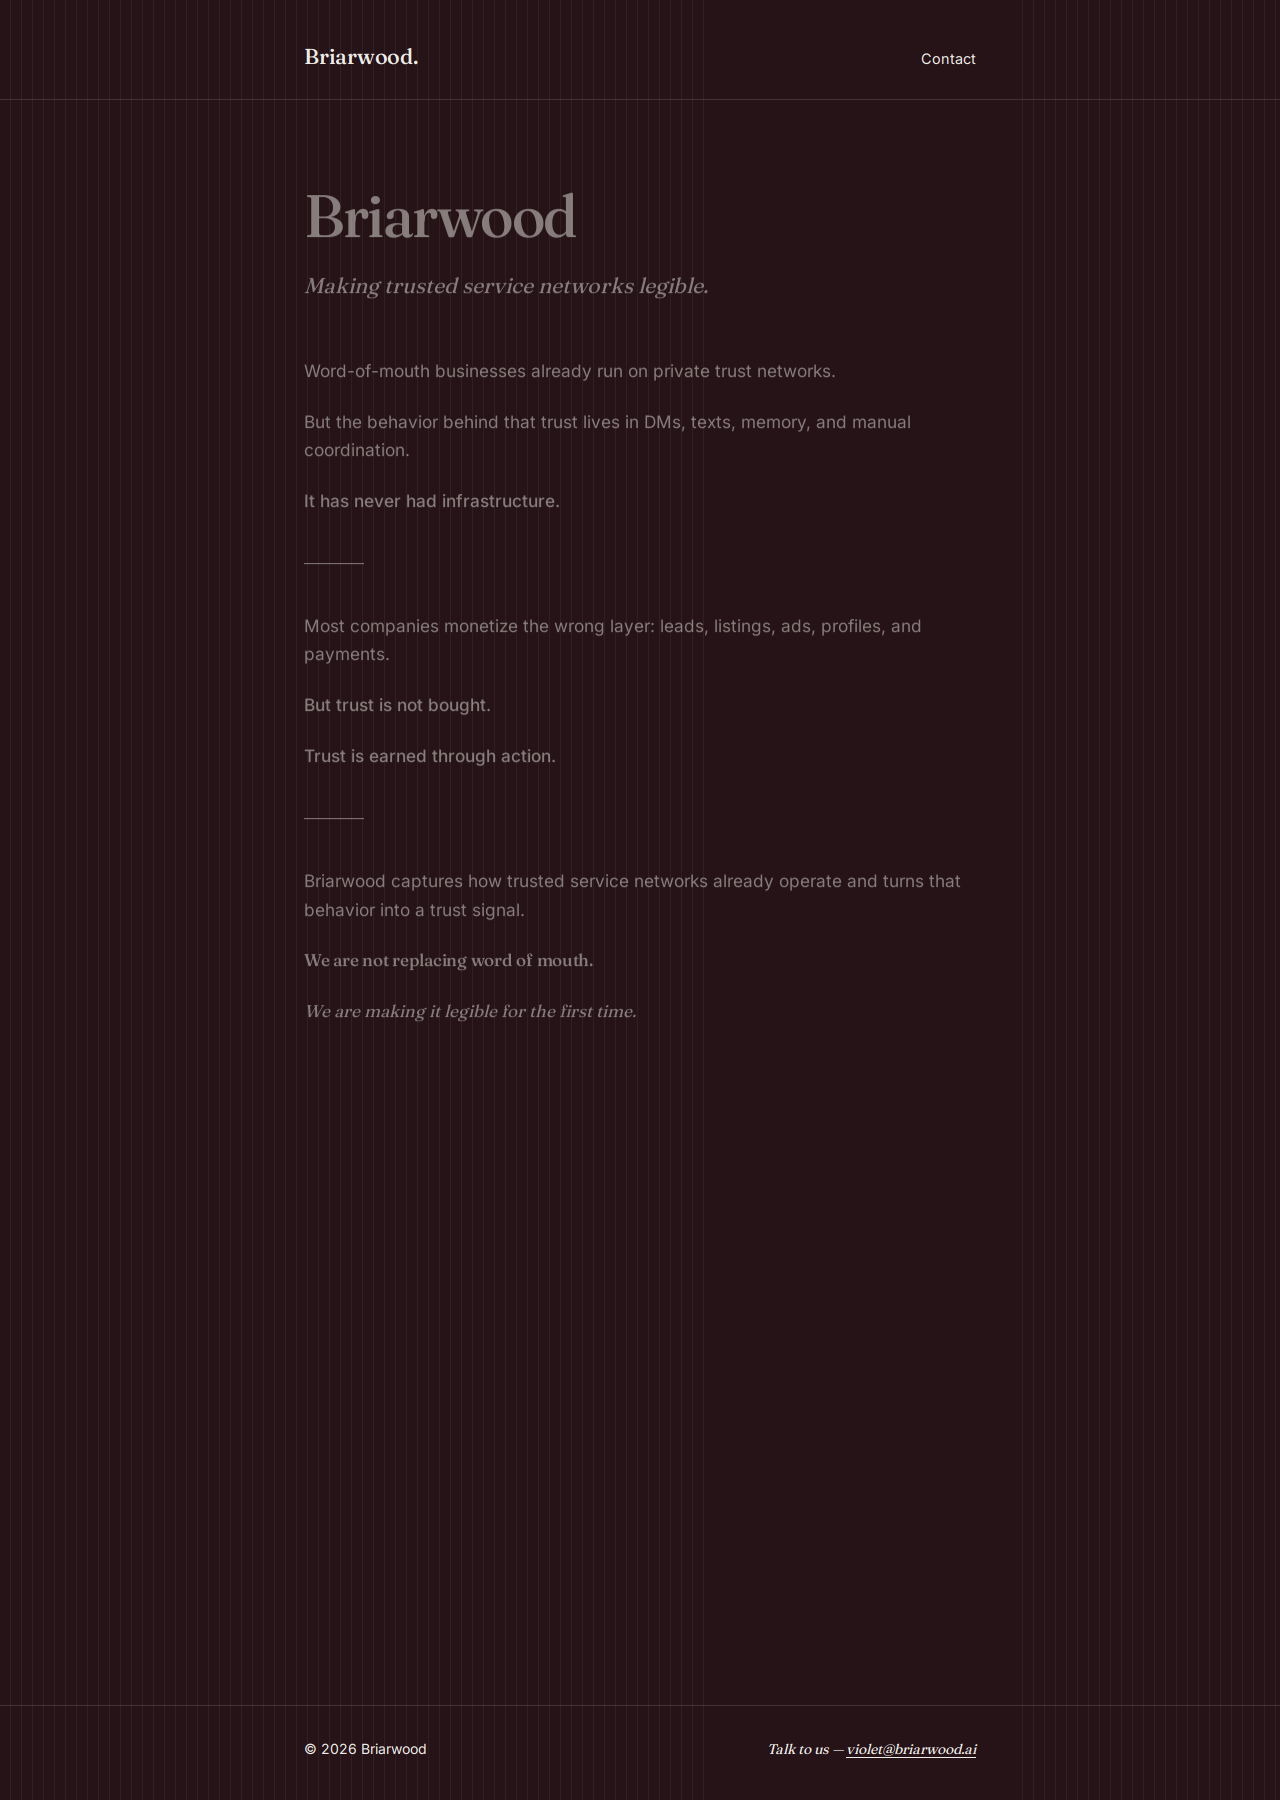
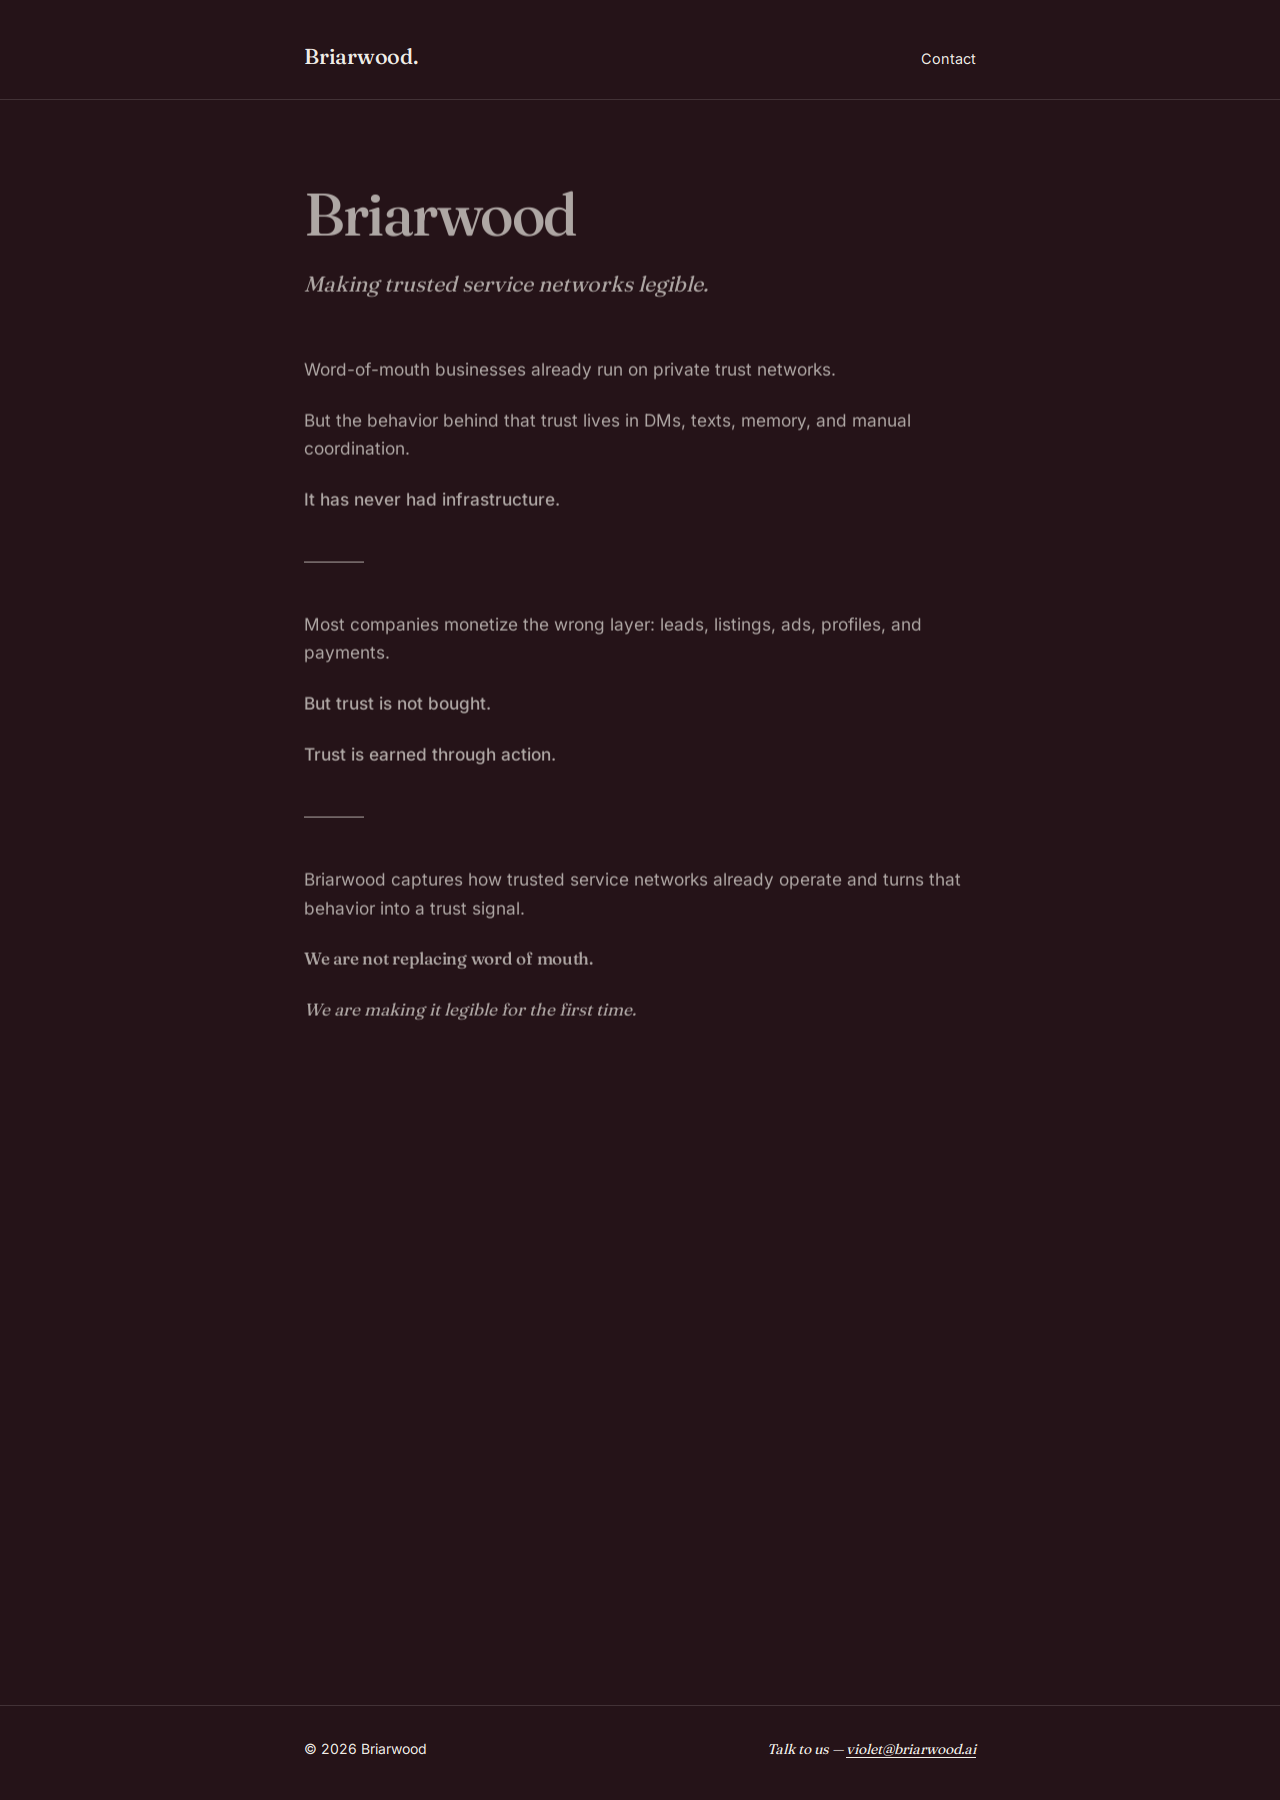
Update background to show grouped pinstripes
Modify the repeating linear gradient CSS to create clustered pinstripes on the landing page background.

Replit-Commit-Author: Agent
Replit-Commit-Session-Id: 009ee89d-49d3-4709-8368-a0944dae4585
Replit-Commit-Checkpoint-Type: full_checkpoint
Replit-Commit-Event-Id: 2bdbe9a3-0d9e-4d49-82c8-8c0f06ac4081
Replit-Commit-Screenshot-Url: https://storage.googleapis.com/screenshot-production-us-central1/e8599704-1e72-4097-8c86-37ef455a3ec6/009ee89d-49d3-4709-8368-a0944dae4585/rmIFtIP
Replit-Helium-Checkpoint-Created: true

diff --git a/briarwood-landing/index.html b/briarwood-landing/index.html
@@ -37,25 +37,30 @@
 html {
   scroll-behavior: smooth;
   background-color: hsl(345 31% 11%);
-  background-image: repeating-linear-gradient(
-    to right,
-    transparent 0,
-    transparent 5px,
-    hsla(36, 24%, 92%, 0.055) 5px,
-    hsla(36, 24%, 92%, 0.055) 5.5px
-  );
+  background-image:
+    repeating-linear-gradient(
+      to right,
+      transparent 0,
+      transparent 7px,
+      hsla(36, 24%, 92%, 0.07) 7px,
+      hsla(36, 24%, 92%, 0.07) 7.5px,
+      transparent 7.5px,
+      transparent 14px,
+      hsla(36, 24%, 92%, 0.07) 14px,
+      hsla(36, 24%, 92%, 0.07) 14.5px,
+      transparent 14.5px,
+      transparent 21px,
+      hsla(36, 24%, 92%, 0.07) 21px,
+      hsla(36, 24%, 92%, 0.07) 21.5px,
+      transparent 21.5px,
+      transparent 95px
+    );
   min-height: 100%;
 }
 
 body {
-  background-color: var(--bg);
-  background-image: repeating-linear-gradient(
-    to right,
-    transparent 0,
-    transparent 5px,
-    hsla(36, 24%, 92%, 0.055) 5px,
-    hsla(36, 24%, 92%, 0.055) 5.5px
-  );
+  background-color: transparent;
+  background-image: none;
   color: var(--ink);
   font-family: 'Inter', -apple-system, BlinkMacSystemFont, sans-serif;
   font-size: 17px;

diff --git a/client/public/briarwood-preview.html b/client/public/briarwood-preview.html
@@ -37,25 +37,30 @@
 html {
   scroll-behavior: smooth;
   background-color: hsl(345 31% 11%);
-  background-image: repeating-linear-gradient(
-    to right,
-    transparent 0,
-    transparent 5px,
-    hsla(36, 24%, 92%, 0.055) 5px,
-    hsla(36, 24%, 92%, 0.055) 5.5px
-  );
+  background-image:
+    repeating-linear-gradient(
+      to right,
+      transparent 0,
+      transparent 7px,
+      hsla(36, 24%, 92%, 0.07) 7px,
+      hsla(36, 24%, 92%, 0.07) 7.5px,
+      transparent 7.5px,
+      transparent 14px,
+      hsla(36, 24%, 92%, 0.07) 14px,
+      hsla(36, 24%, 92%, 0.07) 14.5px,
+      transparent 14.5px,
+      transparent 21px,
+      hsla(36, 24%, 92%, 0.07) 21px,
+      hsla(36, 24%, 92%, 0.07) 21.5px,
+      transparent 21.5px,
+      transparent 95px
+    );
   min-height: 100%;
 }
 
 body {
-  background-color: var(--bg);
-  background-image: repeating-linear-gradient(
-    to right,
-    transparent 0,
-    transparent 5px,
-    hsla(36, 24%, 92%, 0.055) 5px,
-    hsla(36, 24%, 92%, 0.055) 5.5px
-  );
+  background-color: transparent;
+  background-image: none;
   color: var(--ink);
   font-family: 'Inter', -apple-system, BlinkMacSystemFont, sans-serif;
   font-size: 17px;
